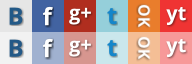
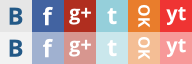
Update social groups buttons

diff --git a/R7.Epsilon/Skins/skin.less b/R7.Epsilon/Skins/skin.less
@@ -167,27 +167,37 @@ ul.dnnAdminTabNav {
     margin-left:12px;
 }
 
-.socialgroups 
+ul.socialgroups 
 {
     margin:0;
-    /*& > li 
-    { 
-        list-style-type: none;
-        display:inline;
-    }*/
+    list-style-type: none;
+    & > li { display:inline; }
     .social-button
     {
         display:inline-block;
         width:32px;
         height:32px;
         background-image:url('img/social_32x32.png');
+        background-repeat:no-repeat;
+    
+        &.social-vk { background-position:0 0; }
+        &.social-vk:hover { background-position:0 -32px; }
+
+        &.social-fb { background-position:-32px 0; }
+        &.social-fb:hover { background-position:-32px -32px; }
+
+        &.social-gp { background-position:-64px 0; }
+        &.social-gp:hover { background-position:-64px -32px; }
+
+        &.social-tw { background-position:-96px 0; }
+        &.social-tw:hover { background-position:-96px -32px; }
+
+        &.social-ok { background-position:-128px 0; }
+        &.social-ok:hover { background-position:-128px -32px; }
+
+        &.social-yt { background-position:-160px 0; }
+        &.social-yt:hover { background-position:-160px -32px; }
     }
-    .social-button.social-vkontakte { background-position:0 0; }
-    .social-button.social-facebook { background-position:32px 0; }
-    .social-button.social-gplus { background-position:64px 0; }
-    .social-button.social-twitter { background-position:96px 0; }
-    .social-button.social-odnoklassniki { background-position:128px 0; }
-    .social-button.social-youtube { background-position:160px 0; }
 }
 
  /*------------------------------------------------*/
